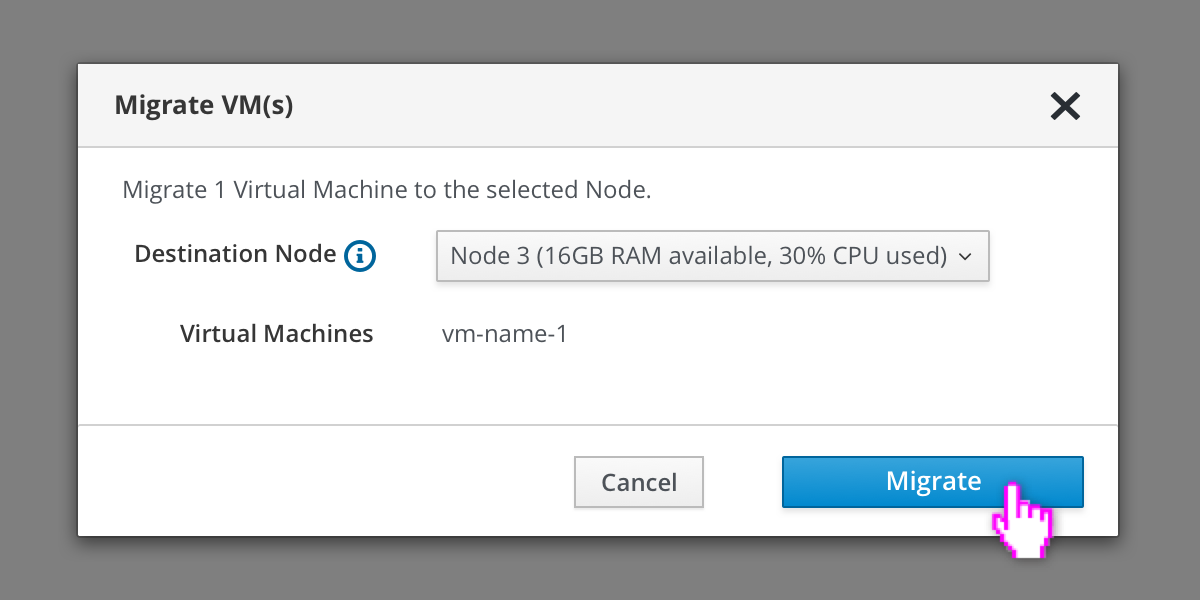
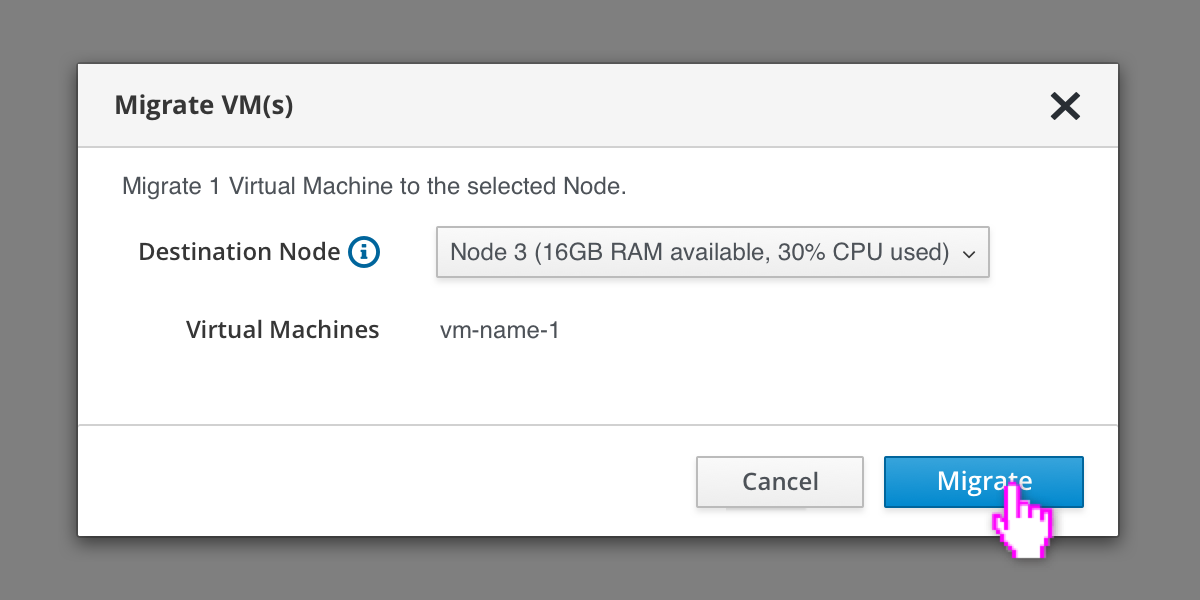
fixing padding in buttons

diff --git a/web-console/knikubevirt/migrate-vm/migrate-vm.md b/web-console/knikubevirt/migrate-vm/migrate-vm.md
@@ -1,6 +1,6 @@
 # Migrate VM
 
-Clicking the action button next to any Virtual Machine in the List will present the user with the option to migrate the VM to another host.
+Clicking the action button next to any Virtual Machine in the List will present the user with the option to migrate the VM to another node.
 
 ![Selecting a VM](img/1-0-list.png)
 
